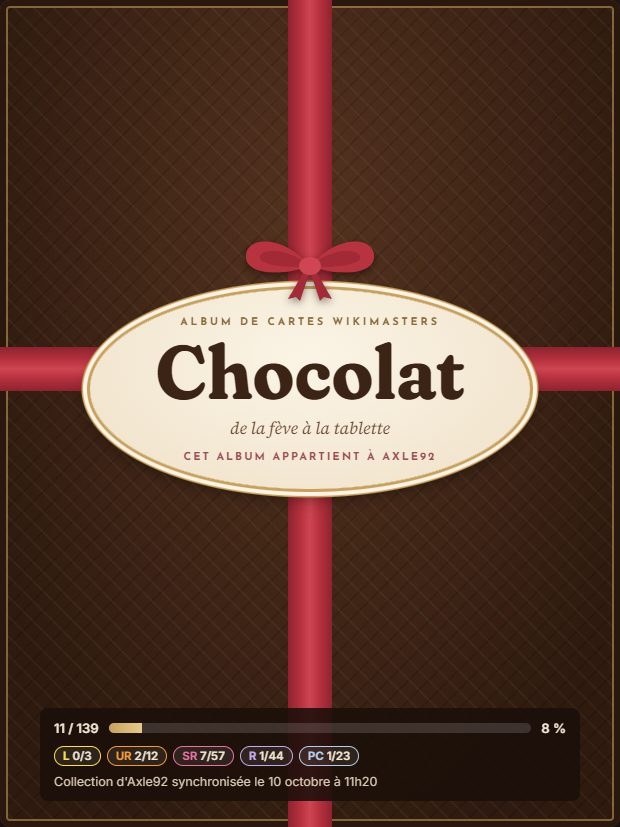
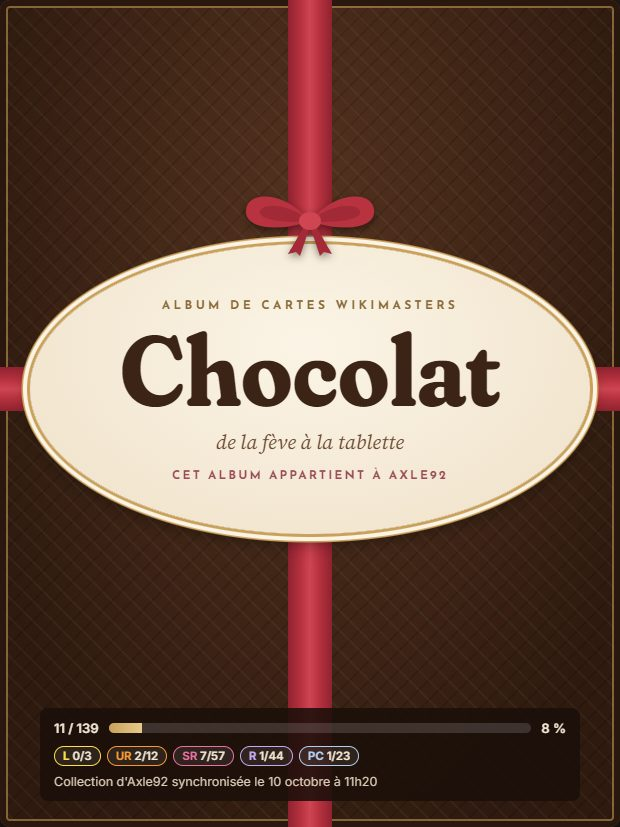
Chocolat : étiquette de couverture agrandie

Changed region(s): [[0.0, 0.2116, 1.0, 0.6651]]

diff --git a/chocolat/index.html b/chocolat/index.html
@@ -211,14 +211,14 @@
   .ribbon { position:absolute; z-index:1; background:linear-gradient(90deg, #8f2230, #b8323f 30%, #cf4552 50%, #b8323f 70%, #8f2230); }
   .ribbon.v { top:0; bottom:0; left:calc(50% - 22px); width:44px; }
   .lid { position:relative; flex:1; display:grid; place-items:center; margin:0 calc(-1 * clamp(16px, 3vw, 40px)); }
-  .ribbon.h { left:0; right:0; top:calc(50% - 22px); height:44px; background:linear-gradient(180deg, #8f2230, #b8323f 30%, #cf4552 50%, #b8323f 70%, #8f2230); }
+  .ribbon.h { left:0; right:0; top:calc(50% - 2px); height:44px; background:linear-gradient(180deg, #8f2230, #b8323f 30%, #cf4552 50%, #b8323f 70%, #8f2230); }
   .bow { position:absolute; z-index:3; left:calc(50% - 80px); top:-58px; width:160px; height:70px; filter:drop-shadow(0 3px 4px rgba(0,0,0,.45)); }
-  .label { position:relative; z-index:2; margin:40px auto 0; width:min(440px, 86%); padding:28px 22px 26px; border-radius:50%;
+  .label { position:relative; z-index:2; margin:40px auto 0; width:min(560px, 96%); padding:56px 30px 52px; border-radius:50%;
            background:radial-gradient(ellipse at 50% 35%, #fbf4e6, #efe1c8); color:var(--cacao); box-shadow:0 0 0 3px #c9a15a, 0 0 0 7px #fbf4e6, 0 0 0 8.5px #c9a15a, 0 8px 18px rgba(0,0,0,.5); }
-  .label .brand { margin:0; font:700 10.5px var(--label); letter-spacing:.28em; text-transform:uppercase; color:#8a6a3a; }
-  .label h1 { margin:6px 0 0; font:700 clamp(48px, 6vw, 76px)/1 var(--title); color:var(--cacao); }
-  .label .sub { margin:6px 0 0; font:italic 400 17px var(--serif); color:#6d4a33; }
-  .label .owner { margin:12px 0 0; font:700 11px var(--label); letter-spacing:.18em; text-transform:uppercase; color:#9a4b57; }
+  .label .brand { margin:0; font:700 12px var(--label); letter-spacing:.28em; text-transform:uppercase; color:#8a6a3a; }
+  .label h1 { margin:8px 0 0; font:700 clamp(58px, 7.4vw, 100px)/1 var(--title); color:var(--cacao); }
+  .label .sub { margin:8px 0 0; font:italic 400 20px var(--serif); color:#6d4a33; }
+  .label .owner { margin:14px 0 0; font:700 12px var(--label); letter-spacing:.18em; text-transform:uppercase; color:#9a4b57; }
   .cover .stats { position:relative; z-index:2; margin:24px 0 0; padding:12px 14px; border-radius:8px; background:rgba(26,15,9,.88); text-align:left; }
   .prog { display:flex; align-items:center; gap:10px; font:600 13px var(--wms); }
   .track { flex:1; height:10px; border-radius:99px; background:rgba(255,255,255,.14); overflow:hidden; }
@@ -252,7 +252,7 @@
     .row { flex-direction:column; align-items:flex-start; } .yr { width:auto; }
   }
   @media (max-width: 560px) {
-    .label { border-radius:34px; padding:20px 14px; } .label .brand, .label .owner { letter-spacing:.14em; }
+    .label { border-radius:34px; padding:22px 14px; width:calc(100% - 36px); } .label h1 { font-size:54px; } .label .sub { font-size:17px; } .label .brand, .label .owner { letter-spacing:.14em; }
     nav.bar { flex-wrap:nowrap; overflow-x:auto; justify-content:flex-start; gap:16px; scrollbar-width:none; } nav.bar a { flex:none; font-size:11px; letter-spacing:.08em; }
     .cover { aspect-ratio:auto; min-height:560px; } .lid { min-height:330px; }
     .wrapper .flag { width:30px; height:20px; } .f-ch { width:20px; }
